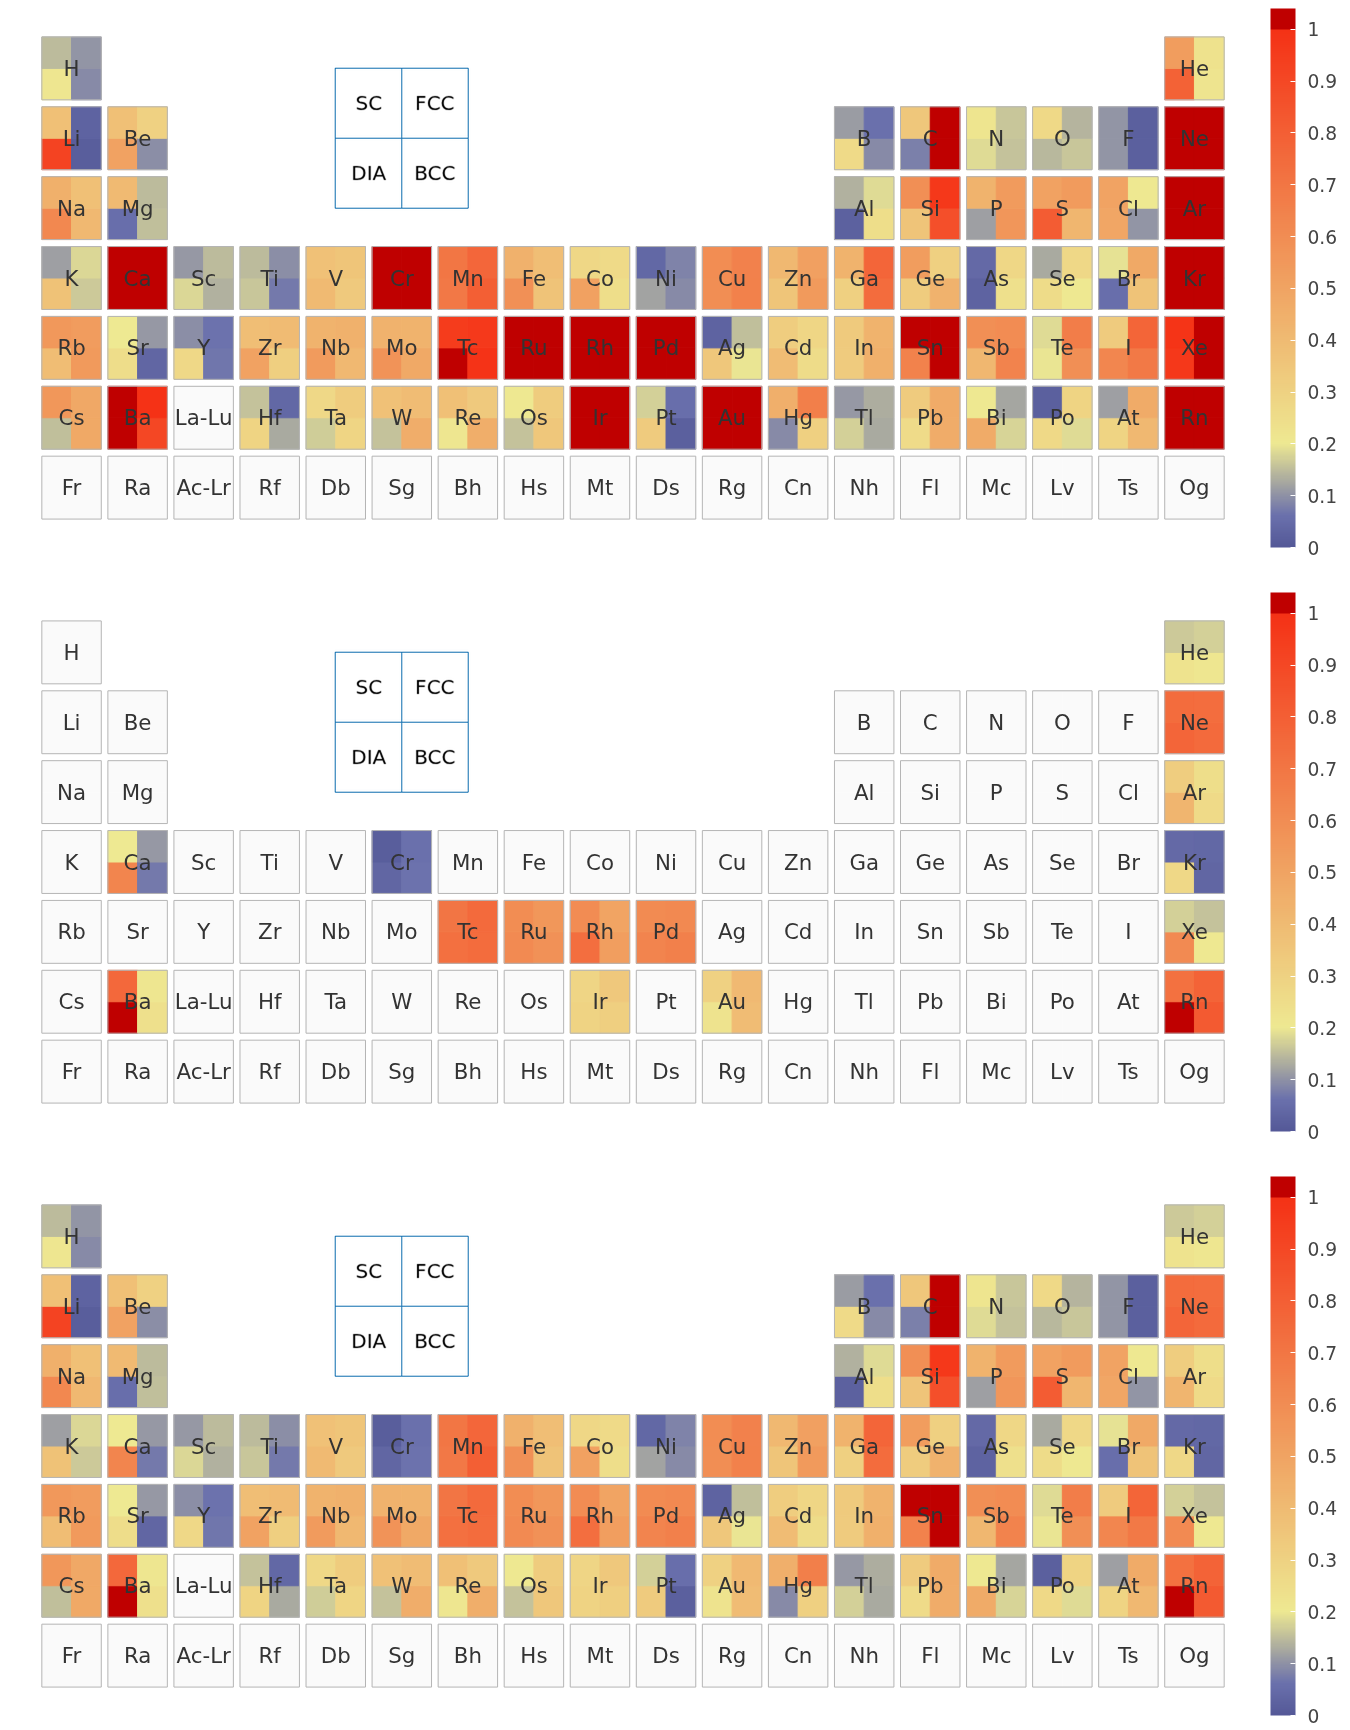
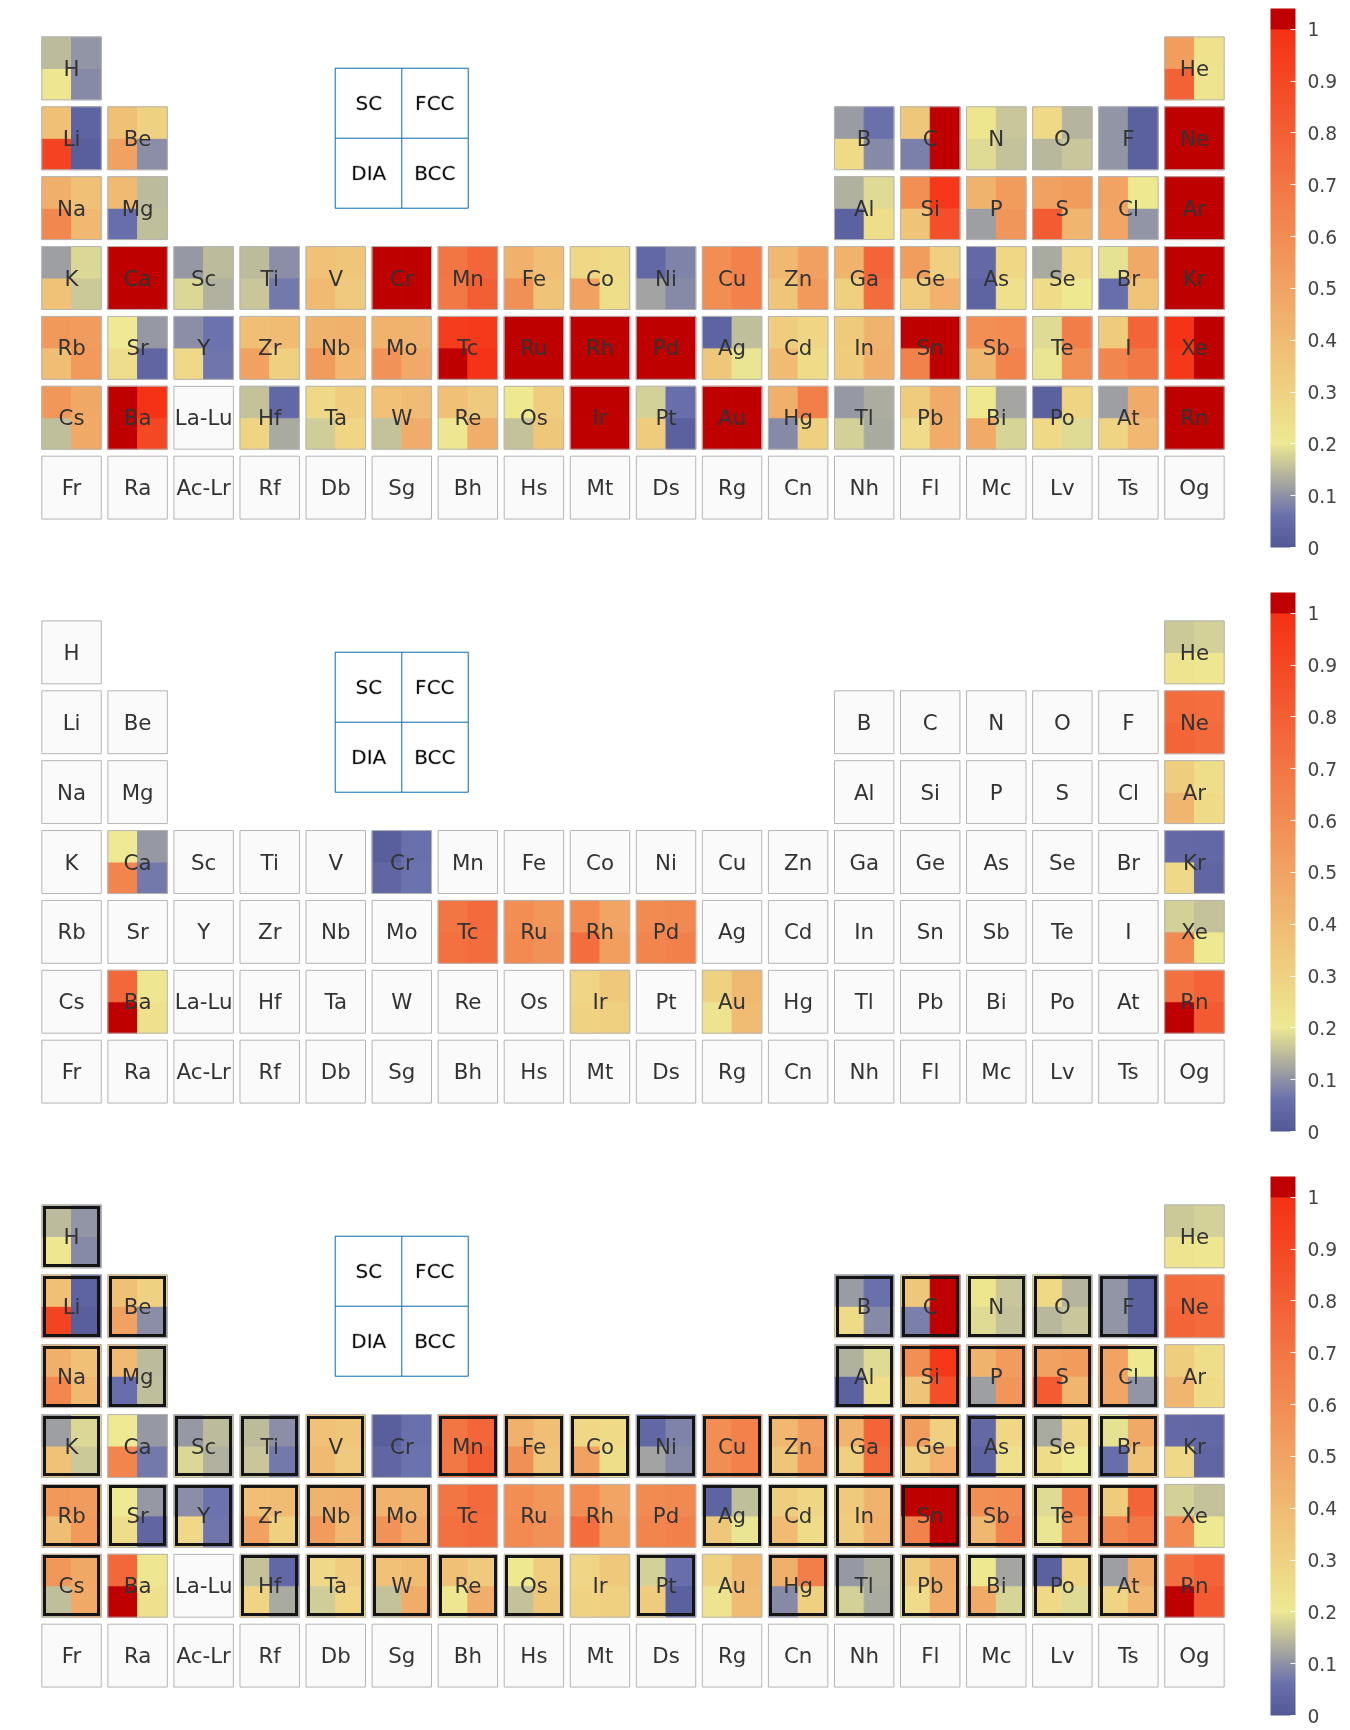
Outline retained entries in total-error panel

diff --git a/manuscript/main_prb_tdk.tex b/manuscript/main_prb_tdk.tex
@@ -214,7 +214,7 @@ Together, the bond-length and polarizability benchmarks, complemented by the ang
 
 \subsection{Total error before and after improvement}
 
-Figure~\ref{fig:total_before_after} compares the total practical error of the original and improved CP2K-GTH-UZH settings relative to the SIRIUS-FP-LAPW reference. In the original settings, several elements exhibit $\varepsilon>1$ for at least two unary structures, including noble gases, selected transition metals, and heavier main-group elements. After applying the UZH protocol, the corresponding CP2K-GTH-UZH-new map is substantially cleaner, with the largest residual deviations confined to a smaller set of chemically interpretable cases. The completed map in the lower panel fills entries not recomputed with the improved settings by retaining the corresponding original values, providing a full-period overview on the same scale. This before--after comparison is the error a user would observe if CP2K were treated as a black box. It is therefore the most direct measure of the protocol's practical accuracy, but by itself it does not reveal the origin of the discrepancy.
+Figure~\ref{fig:total_before_after} compares the total practical error of the original and improved CP2K-GTH-UZH settings relative to the SIRIUS-FP-LAPW reference. In the original settings, several elements exhibit $\varepsilon>1$ for at least two unary structures, including noble gases, selected transition metals, and heavier main-group elements. After applying the UZH protocol, the corresponding CP2K-GTH-UZH-new map is substantially cleaner, with the largest residual deviations confined to a smaller set of chemically interpretable cases. The completed map in the lower panel fills entries not recomputed with the improved settings by retaining the corresponding original values, providing a full-period overview on the same scale; these retained entries are outlined. This before--after comparison is the error a user would observe if CP2K were treated as a black box. It is therefore the most direct measure of the protocol's practical accuracy, but by itself it does not reveal the origin of the discrepancy.
 
 The important point is that the outliers do not have a single chemical or numerical origin. Noble-gas solids are especially sensitive to the radial flexibility and diffuseness of the valence basis because their equation-of-state curves are shallow and dominated by weak interactions. Several transition-metal cases, in contrast, point to the quality of the frozen-core representation, semicore treatment, and the scalar-relativistic transferability encoded in the DKH3-fitted pseudopotential. Heavy main-group elements can combine both effects. The total-error map is therefore deliberately used as a starting point rather than as a final ranking of elements: it identifies where the original settings are insufficient, but the remedial action requires the decomposition in the next subsection.
 
@@ -223,7 +223,7 @@ This distinction is central for interpreting $\varepsilon$. A large total error 
 \begin{figure*}
 \includegraphics[width=\textwidth,height=0.88\textheight,keepaspectratio]{periodic-table-unaries-total-error-before-after-filled.png}
 \caption{\label{fig:total_before_after}
-Total equation-of-state error relative to SIRIUS-FP-LAPW, expressed with the $\varepsilon$ metric of Eq.~(\ref{eq:epsilon}). Top: original CP2K-GTH-UZH settings. Middle: improved CP2K-GTH-UZH-new settings. Bottom: completed view in which entries absent from the improved data set are filled with the corresponding original CP2K-GTH-UZH values. Each map contains both Gaussian-basis and pseudopotential errors and therefore represents the practical production-level CP2K error before and after applying the UZH protocol.}
+Total equation-of-state error relative to SIRIUS-FP-LAPW, expressed with the $\varepsilon$ metric of Eq.~(\ref{eq:epsilon}). Top: original CP2K-GTH-UZH settings. Middle: improved CP2K-GTH-UZH-new settings. Bottom: completed view in which entries absent from the improved data set are filled with the corresponding original CP2K-GTH-UZH values; outlined cells mark the retained original entries. Each map contains both Gaussian-basis and pseudopotential errors and therefore represents the practical production-level CP2K error before and after applying the UZH protocol.}
 \end{figure*}
 
 \begin{table*}